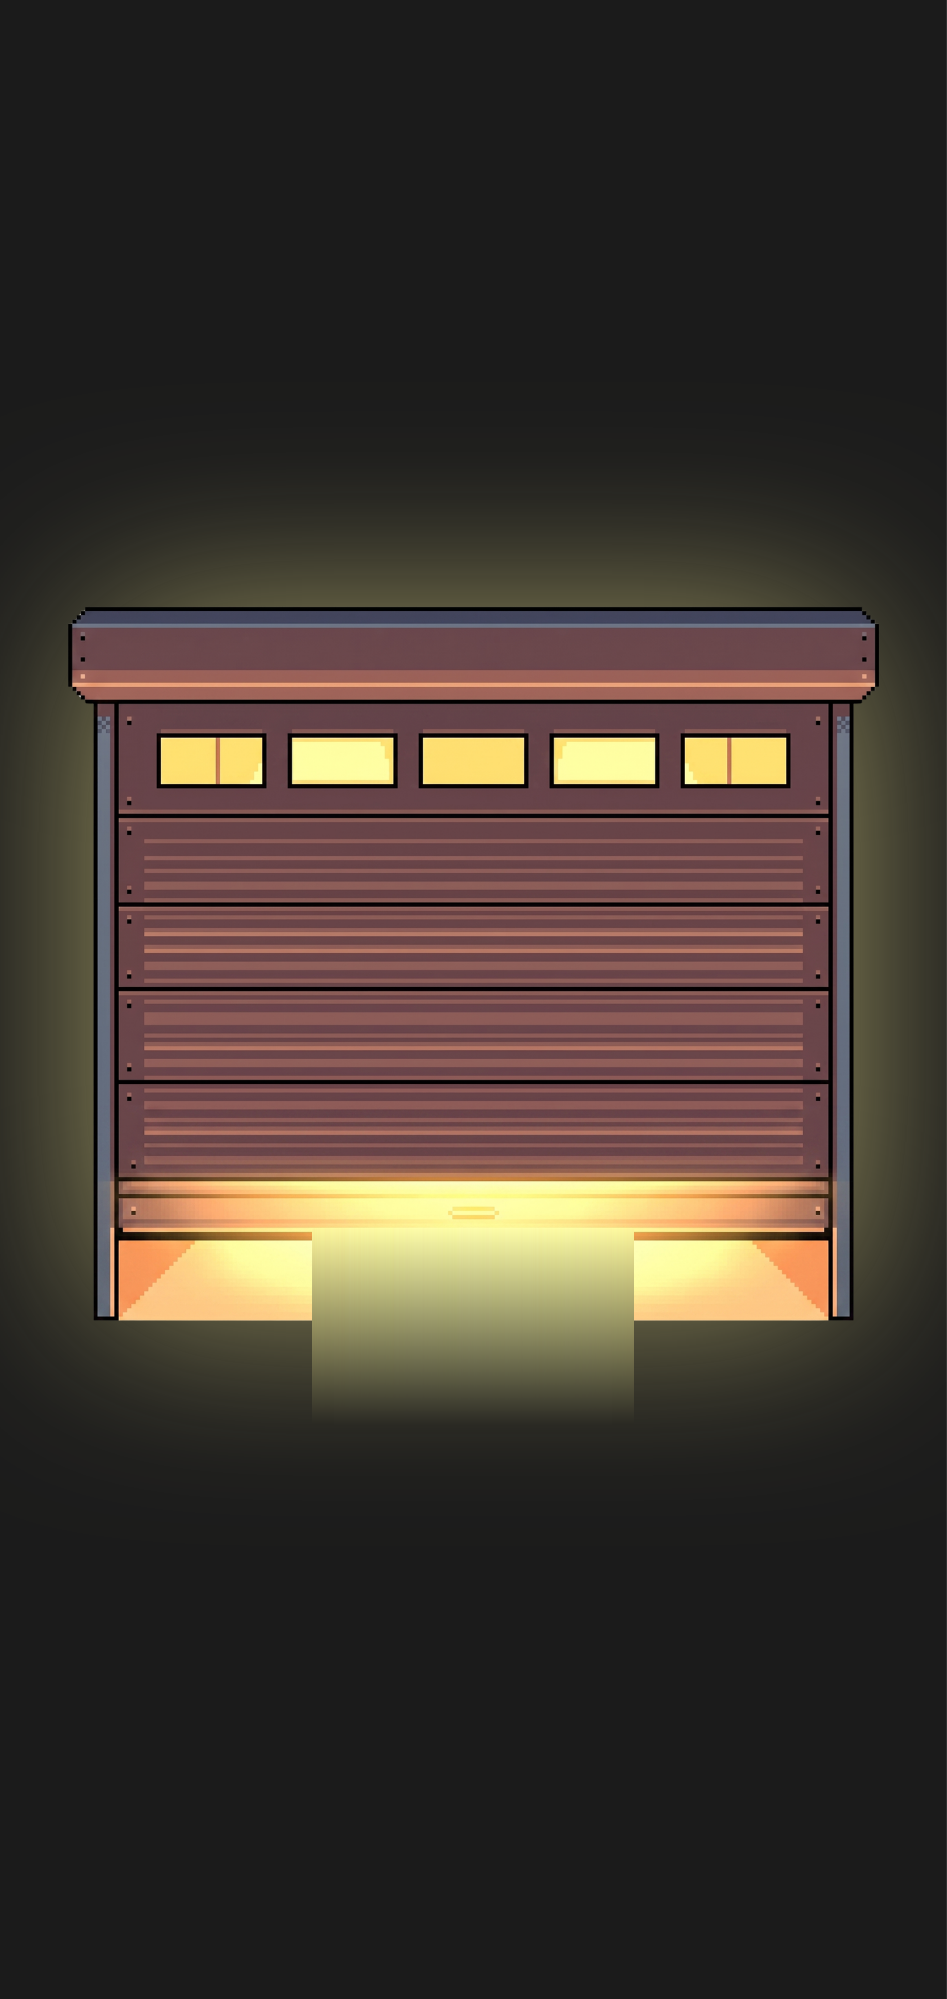
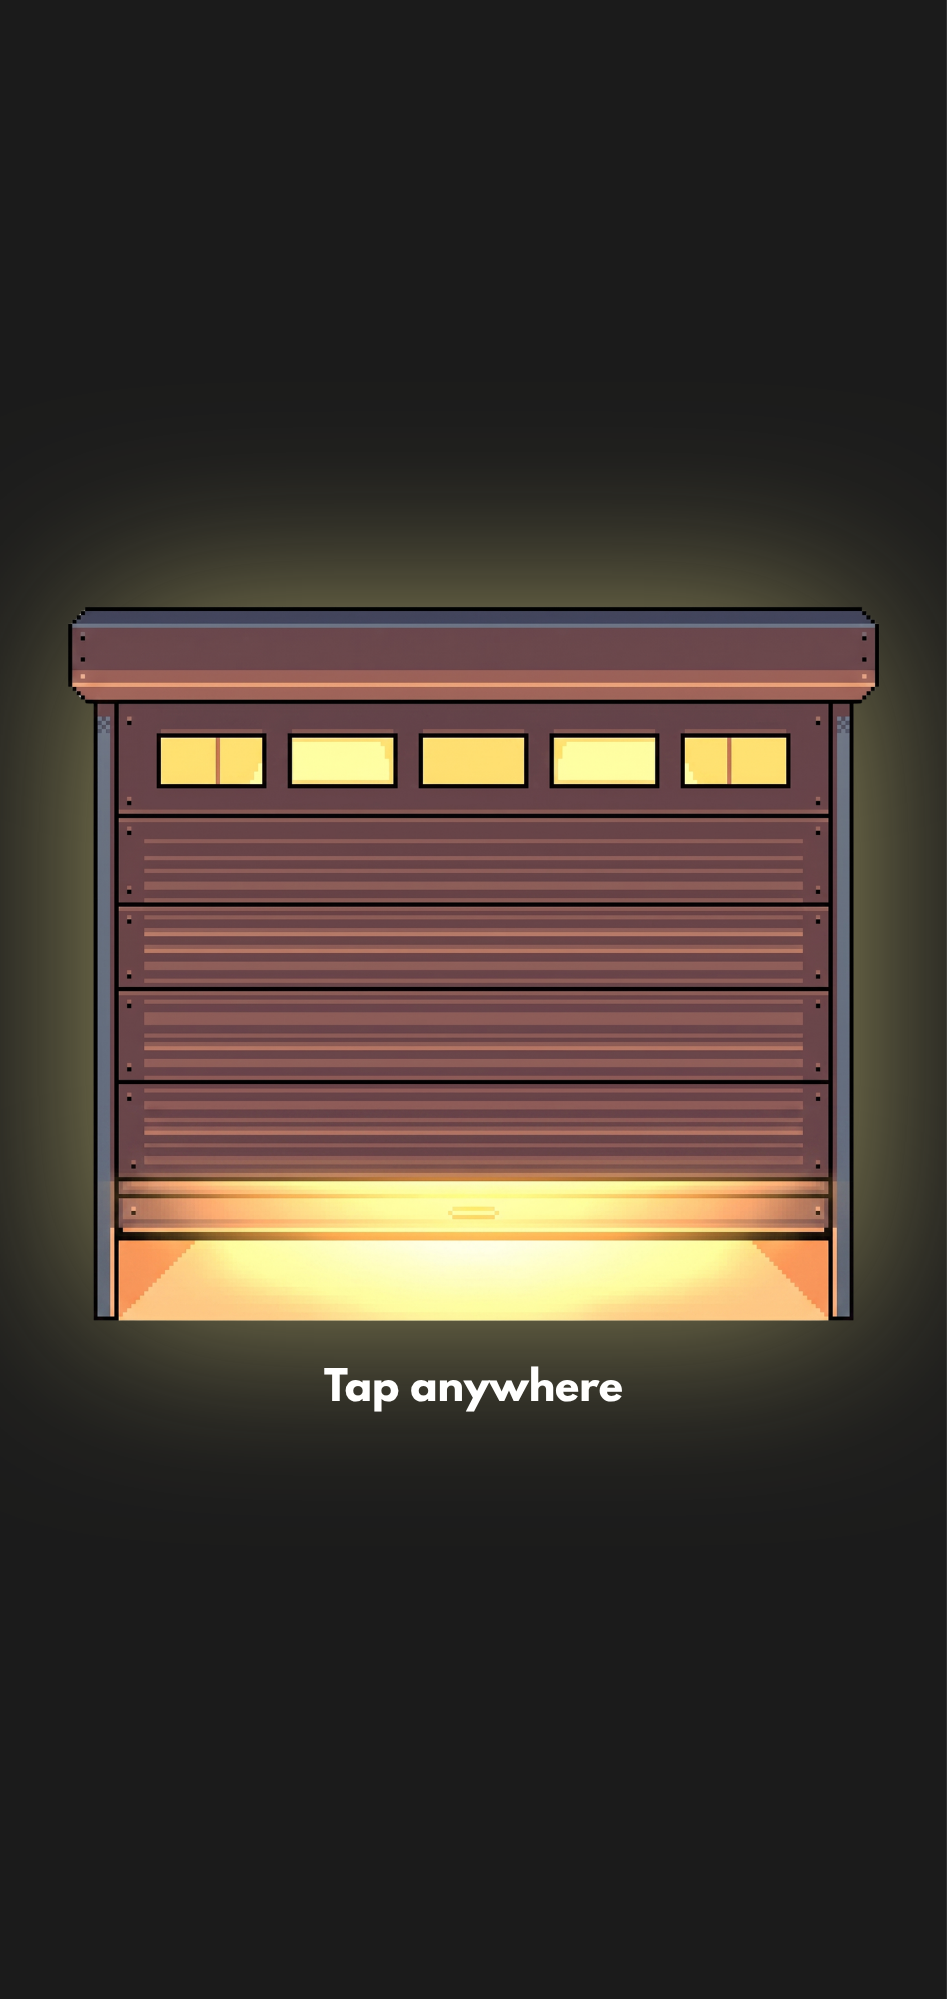
Wheels: faster + precise centers (no wobble, rim-only); rework welcome intro
Wheels: re-measured every hub via rotational-symmetry fitting (true axle, no
orbit) and set each disk radius to the rim's outer edge so only the rim spins,
tire stays static. Spin ~2.3x faster (.22s).

Welcome: use the original unaltered door images (baked growing "Tap anywhere"
text restored), post dark theme to the native shell so safe-area bezels aren't
white, subtler chest-pop on taps, and the headlights video now plays from frame
0 after the zoom (holds last frame only after it ends). Settings gains a
"Replay intro animation" row.

Changed region(s): [[0.3062, 0.5893, 0.6737, 0.7134]]

diff --git a/app/welcome.html b/app/welcome.html
@@ -1,66 +1,45 @@
 <!doctype html>
-<html lang="en">
+<html lang="en" data-theme="dark">
 <head>
 <meta charset="utf-8">
 <meta name="viewport" content="width=device-width, initial-scale=1, viewport-fit=cover, user-scalable=no">
 <title>Welcome to CarBox</title>
-<link rel="preconnect" href="https://fonts.googleapis.com">
-<link rel="preconnect" href="https://fonts.gstatic.com" crossorigin>
-<link href="https://fonts.googleapis.com/css2?family=League+Spartan:wght@400;600;700&display=swap" rel="stylesheet">
 <style>
-  :root{ --brown:#615142; }
   *{ box-sizing:border-box; -webkit-tap-highlight-color:transparent; }
-  html,body{ margin:0; height:100%; background:#111010; overflow:hidden; }
+  html,body{ margin:0; height:100%; background:#100f0f; overflow:hidden; }
   body{ font-family:'League Spartan',system-ui,-apple-system,'Segoe UI',sans-serif; }
 
-  /* full-screen stage */
-  #stage{ position:fixed; inset:0; background:#111010; overflow:hidden; touch-action:manipulation; }
+  #stage{ position:fixed; inset:0; background:#100f0f; overflow:hidden; touch-action:manipulation; }
 
-  /* the garage-door images fill the screen; they swap + bounce on each tap */
+  /* the garage-door frames fill the screen (your originals, unaltered) and
+     swap with a chest-pop on each tap */
   .door{ position:absolute; inset:0; width:100%; height:100%; object-fit:cover;
-         will-change:transform,opacity; transform:translateZ(0); }
+         will-change:transform,opacity; }
 
-  /* idle "Tap anywhere" text — a separate layer so the door can bounce beneath it */
-  #tapText{ position:absolute; left:0; right:0; top:72%; text-align:center;
-    color:#fff; font-weight:700; font-size:30px; letter-spacing:.5px;
-    text-shadow:0 2px 18px rgba(0,0,0,.55);
-    animation:breathe 2.4s ease-in-out infinite; pointer-events:none; }
-  @keyframes breathe{ 0%,100%{opacity:.72} 50%{opacity:1} }
-
-  /* the headlights video stage */
-  #videoWrap{ position:absolute; inset:0; background:#000; opacity:0; pointer-events:none;
+  /* headlights video sits at the bottom of the stack so the door zooms in FRONT
+     of it, then dissolves to reveal it */
+  #videoWrap{ position:absolute; inset:0; background:#100f0f; opacity:0; pointer-events:none;
     display:flex; align-items:center; justify-content:center; }
-  #vid{ width:100%; height:100%; object-fit:contain; background:#000; }
+  #vid{ width:100%; height:100%; object-fit:contain; background:#100f0f; }
 
-  /* brown Continue button — pops up at second 2 */
-  #continue{ position:absolute; left:50%; bottom:6%; transform:translateX(-50%) scale(0);
-    background:var(--brown); color:#fff; border:none; cursor:pointer;
+  #continue{ position:absolute; left:50%; bottom:7%; transform:translateX(-50%) scale(0);
+    background:#615142; color:#fff; border:none; cursor:pointer;
     font-family:inherit; font-weight:700; font-size:19px; letter-spacing:.4px;
-    padding:16px 54px; border-radius:999px; box-shadow:0 12px 30px rgba(0,0,0,.45);
+    padding:16px 56px; border-radius:999px; box-shadow:0 12px 30px rgba(0,0,0,.5);
     opacity:0; pointer-events:none; }
   #continue.show{ animation:pop .5s cubic-bezier(.3,1.4,.4,1) forwards; pointer-events:auto; }
   @keyframes pop{ 0%{transform:translateX(-50%) scale(0);opacity:0}
                   60%{transform:translateX(-50%) scale(1.08);opacity:1}
                   100%{transform:translateX(-50%) scale(1);opacity:1} }
-  #continue:active{ filter:brightness(.92); }
+  #continue:active{ filter:brightness(.9); }
 
-  /* quick fade-to-black used right before handing off to the garage */
   #fade{ position:absolute; inset:0; background:#000; opacity:0; pointer-events:none; transition:opacity .28s ease; }
-
-  @media (prefers-reduced-motion:reduce){
-    #tapText{ animation:none; opacity:.9; }
-  }
 </style>
 </head>
 <body>
 <div id="stage" aria-label="Tap anywhere to continue">
-  <!-- video sits at the bottom of the stack so the door can zoom in FRONT of it,
-       then fade away to reveal it -->
-  <div id="videoWrap">
-    <video id="vid" src="assets/ob_headlights.mp4" muted playsinline preload="auto"></video>
-  </div>
+  <div id="videoWrap"><video id="vid" src="assets/ob_headlights.mp4" muted playsinline preload="auto"></video></div>
   <img class="door" id="door" src="assets/ob_door0.png" alt="">
-  <div id="tapText">Tap anywhere</div>
   <button id="continue">Continue</button>
   <div id="fade"></div>
 </div>
@@ -68,110 +47,100 @@
 <script>
 (function () {
   'use strict';
+  /* tell the native shell to go dark so the safe-area insets aren't white */
+  try { document.documentElement.setAttribute('data-theme', 'dark'); } catch (e) {}
+  try { if (window.ReactNativeWebView) window.ReactNativeWebView.postMessage(JSON.stringify({ theme: 'dark' })); } catch (e) {}
+
   var reduced = window.matchMedia && matchMedia('(prefers-reduced-motion: reduce)').matches;
   var SPRING = 'cubic-bezier(.3,1.4,.4,1)';
 
-  var stage   = document.getElementById('stage');
-  var door    = document.getElementById('door');
-  var tapText = document.getElementById('tapText');
-  var vwrap   = document.getElementById('videoWrap');
-  var vid     = document.getElementById('vid');
-  var cont    = document.getElementById('continue');
-  var fade    = document.getElementById('fade');
+  var stage = document.getElementById('stage');
+  var door  = document.getElementById('door');
+  var vwrap = document.getElementById('videoWrap');
+  var vid   = document.getElementById('vid');
+  var cont  = document.getElementById('continue');
+  var fade  = document.getElementById('fade');
+  vid.loop = false;
 
   var DOORS = ['assets/ob_door0.png','assets/ob_door1.png','assets/ob_door2.png','assets/ob_door3.png'];
-  /* preload every frame + the video so nothing hitches mid-sequence */
-  DOORS.forEach(function (s) { var i = new Image(); i.src = s; });
+  DOORS.forEach(function (s) { var i = new Image(); i.src = s; });   /* preload frames */
+  try { vid.load(); } catch (e) {}                                   /* preload video */
 
-  var step = 0;        /* 0,1,2 = door frames shown; then 'video' */
-  var busy = false;    /* lock during transitions so taps can't stack */
+  var step = 0;      /* 0,1,2 = door frames; then 'video' */
+  var busy = false;
 
-  /* swap to the next door frame with a chest-open bounce (text stays put) */
+  /* swap to the next door frame with a chest-pop (grows + settles, never shrinks
+     below the screen so no edge ever shows) */
   function openDoor(nextSrc) {
     busy = true;
     var incoming = door.cloneNode(false);
     incoming.removeAttribute('id');
     incoming.src = nextSrc;
     incoming.style.opacity = '0';
-    door.parentNode.insertBefore(incoming, door.nextSibling);
-    var old = door;
-    door = incoming;
+    stage.insertBefore(incoming, door.nextSibling);
+    var old = door; door = incoming;
 
-    var dur = reduced ? 220 : 470;
-    var bounce = incoming.animate(
-      [{ transform: 'scale(.84)', opacity: 0 }, { transform: 'scale(1)', opacity: 1 }],
-      { duration: dur, easing: reduced ? 'ease-out' : SPRING, fill: 'forwards' }
+    var dur = reduced ? 200 : 420;
+    var a = incoming.animate(
+      reduced
+        ? [{ opacity: 0 }, { opacity: 1 }]
+        : [{ opacity: 0, transform: 'scale(1)' },
+           { opacity: 1, transform: 'scale(1.045)', offset: 0.45 },
+           { opacity: 1, transform: 'scale(1)' }],
+      { duration: dur, easing: 'ease-out', fill: 'forwards' }
     );
-    /* cross-fade the previous frame out under the incoming one */
-    var fadeOut = old.animate([{ opacity: 1 }, { opacity: 0 }], { duration: 160, easing: 'ease-out', fill: 'forwards' });
-    fadeOut.onfinish = function () { if (old.parentNode) old.parentNode.removeChild(old); };
-    /* stay locked until the bounce fully settles so fast taps can't stack */
-    bounce.onfinish = function () { busy = false; };
+    old.animate([{ opacity: 1 }, { opacity: 0 }], { duration: 150, easing: 'ease-out', fill: 'forwards' })
+       .onfinish = function () { if (old.parentNode) old.parentNode.removeChild(old); };
+    a.onfinish = function () { busy = false; };
   }
 
-  /* final tap: dive into the open garage, then reveal the headlights video */
+  /* final tap: fast zoom into the doorway, then play the headlights video from 0 */
   function zoomIntoGarage() {
-    busy = true;
-    /* text fades away for the zoom (stop the idle breathe so they don't fight) */
-    tapText.style.animation = 'none';
-    tapText.animate([{ opacity: getComputedStyle(tapText).opacity }, { opacity: 0 }],
-      { duration: 180, easing: 'ease-out', fill: 'forwards' });
-
-    /* swap to the transparent, text-free fully-open frame (aligned with the last) */
+    busy = true; step = 'video';
     var zoom = door.cloneNode(false);
     zoom.removeAttribute('id');
-    zoom.src = 'assets/ob_door3.png';
-    door.parentNode.insertBefore(zoom, door.nextSibling);
+    zoom.src = 'assets/ob_door3.png';           /* transparent, text-free, aligned */
+    stage.insertBefore(zoom, door.nextSibling);
     var old = door; door = zoom;
     if (old.parentNode) old.parentNode.removeChild(old);
-    zoom.style.transformOrigin = '50% 53%';   /* dive into the glowing doorway */
+    zoom.style.transformOrigin = '50% 53%';     /* the glowing doorway */
 
-    /* start the video underneath so it's ready as the yellow fills the screen */
-    vwrap.style.opacity = '1';
-    var playing = vid.play();
-    if (playing && playing.catch) playing.catch(function () {});
-    armContinue();
-
-    var dur = reduced ? 500 : 720;
-    /* fast zoom that eases IN (accelerates) toward the glowing doorway */
+    var dur = reduced ? 420 : 640;
     var z = zoom.animate(
       [{ transform: 'scale(1)' }, { transform: 'scale(12)' }],
-      { duration: dur, easing: 'cubic-bezier(.55,.06,.9,.32)', fill: 'forwards' }
+      { duration: dur, easing: 'cubic-bezier(.55,.06,.9,.32)', fill: 'forwards' }   /* fast ease-in */
     );
-    /* fade the zooming frame out over the last third so it dissolves into the video */
-    zoom.animate([{ opacity: 1, offset: 0 }, { opacity: 1, offset: 0.62 }, { opacity: 0, offset: 1 }],
-      { duration: dur, easing: 'linear', fill: 'forwards' });
-    z.onfinish = function () { if (zoom.parentNode) zoom.parentNode.removeChild(zoom); };
-    step = 'video';
+    z.onfinish = function () {
+      /* the zoomed yellow now fills the screen; start the video underneath and
+         dissolve the yellow away so the video plays from its very first frame */
+      vwrap.style.opacity = '1';
+      try { vid.currentTime = 0; } catch (e) {}
+      var p = vid.play(); if (p && p.catch) p.catch(function () {});
+      zoom.animate([{ opacity: 1 }, { opacity: 0 }], { duration: 300, easing: 'ease-out', fill: 'forwards' })
+          .onfinish = function () { if (zoom.parentNode) zoom.parentNode.removeChild(zoom); };
+      armContinue();                              /* Continue pops in 2s into the video */
+    };
   }
 
-  /* the Continue button pops up 2s in and survives to the last frame */
   var continueArmed = false;
   function armContinue() {
     if (continueArmed) return; continueArmed = true;
-    setTimeout(function () {
-      cont.style.opacity = '1';
-      cont.classList.add('show');
-    }, 2000);
+    setTimeout(function () { cont.style.opacity = '1'; cont.classList.add('show'); }, 2000);
   }
 
   stage.addEventListener('click', function (e) {
-    if (e.target === cont) return;         /* the button handles itself */
+    if (e.target === cont) return;
     if (busy || step === 'video') return;
     if (step < 2) { step++; openDoor(DOORS[step]); }
-    else { zoomIntoGarage(); }             /* step === 2 -> dive in */
+    else { zoomIntoGarage(); }
   });
 
   cont.addEventListener('click', function () {
     cont.disabled = true;
-    /* hand off to the garage with a reveal (index.html reads this flag) */
     try { sessionStorage.setItem('carbox.reveal', '1'); } catch (err) {}
     fade.style.opacity = '1';
     setTimeout(function () { location.replace('index.html?v=' + Date.now()); }, 260);
   });
-
-  /* video never loops -> it naturally holds its last frame until Continue is tapped */
-  vid.loop = false;
 })();
 </script>
 </body>

diff --git a/app/wheels.js b/app/wheels.js
@@ -15,14 +15,17 @@
 window.CarBoxWheels = (function () {
   'use strict';
 
-  /* preset id -> { w, h (natural px), wheels:[{x,y,r} front, rear] } */
+  /* preset id -> { w, h (natural px), wheels:[{x,y,r} front, rear] }
+     Centres found by rotational-symmetry fitting (the point the tire ring is
+     symmetric about = the true axle, so rotation never wobbles); r = the rim's
+     outer radius (tire inner edge) so ONLY the rim spins and the tire stays. */
   var GEOM = {
-    body_suv:      { w: 872, h: 340, wheels: [{ x: 170, y: 261, r: 54 }, { x: 688, y: 266, r: 54 }] },
-    body_suvcoupe: { w: 875, h: 330, wheels: [{ x: 161, y: 236, r: 50 }, { x: 703, y: 235, r: 50 }] },
-    body_coupe2:   { w: 885, h: 278, wheels: [{ x: 163, y: 201, r: 54 }, { x: 730, y: 207, r: 54 }] },
-    body_coupe4:   { w: 868, h: 265, wheels: [{ x: 157, y: 184, r: 50 }, { x: 693, y: 196, r: 50 }] },
-    body_sedan:    { w: 874, h: 284, wheels: [{ x: 147, y: 200, r: 50 }, { x: 687, y: 216, r: 50 }] },
-    sprite_chiron: { w: 1001, h: 265, wheels: [{ x: 212, y: 177, r: 58 }, { x: 836, y: 193, r: 58 }] }
+    body_suv:      { w: 872, h: 340, wheels: [{ x: 175, y: 266, r: 65 }, { x: 688, y: 267, r: 65 }] },
+    body_suvcoupe: { w: 875, h: 330, wheels: [{ x: 167, y: 232, r: 60 }, { x: 700, y: 233, r: 61 }] },
+    body_coupe2:   { w: 885, h: 278, wheels: [{ x: 169, y: 204, r: 61 }, { x: 729, y: 204, r: 62 }] },
+    body_coupe4:   { w: 868, h: 265, wheels: [{ x: 163, y: 190, r: 53 }, { x: 693, y: 197, r: 54 }] },
+    body_sedan:    { w: 874, h: 284, wheels: [{ x: 151, y: 206, r: 52 }, { x: 686, y: 217, r: 54 }] },
+    sprite_chiron: { w: 1001, h: 265, wheels: [{ x: 217, y: 171, r: 64 }, { x: 842, y: 196, r: 66 }] }
   };
 
   var styleInjected = false;
@@ -36,18 +39,18 @@ window.CarBoxWheels = (function () {
       /* keep the cross-page car morph on the image itself */
       '.cb-wheels{position:absolute;inset:0;pointer-events:none;overflow:visible}' +
       '.cb-wheel{position:absolute;border-radius:50%;overflow:hidden;' +
-        '-webkit-mask:radial-gradient(circle at 50% 50%,#000 76%,rgba(0,0,0,0) 100%);' +
-                'mask:radial-gradient(circle at 50% 50%,#000 76%,rgba(0,0,0,0) 100%)}' +
+        '-webkit-mask:radial-gradient(circle at 50% 50%,#000 85%,rgba(0,0,0,0) 100%);' +
+                'mask:radial-gradient(circle at 50% 50%,#000 85%,rgba(0,0,0,0) 100%)}' +
       '.cb-wheel-spin{position:absolute;background-repeat:no-repeat;background-size:100% 100%;' +
         'image-rendering:pixelated;' +
-        'animation:cb-spin var(--cb-wheel-dur,.5s) linear infinite;' +
+        'animation:cb-spin var(--cb-wheel-dur,.22s) linear infinite;' +
         'will-change:transform;backface-visibility:hidden}' +
       /* BOTH keyframes must use rotate() so the browser interpolates the ANGLE,
          not the (identical) start/end matrices -> a real full turn. Car faces
          left, so wheels roll counter-clockwise. */
       '@keyframes cb-spin{from{transform:rotate(0deg)}to{transform:rotate(-360deg)}}' +
       /* respect reduced motion: never stops, but rolls gently instead of a blur */
-      '@media (prefers-reduced-motion:reduce){.cb-wheel-spin{animation-duration:var(--cb-wheel-dur-rm,3.6s)}}';
+      '@media (prefers-reduced-motion:reduce){.cb-wheel-spin{animation-duration:var(--cb-wheel-dur-rm,2s)}}';
     document.head.appendChild(s);
   }
 

diff --git a/app/settings.html b/app/settings.html
@@ -280,6 +280,9 @@
       </div>
       <img class="chev-r" src="assets/icon_chevron.png" alt="">
     </div>
+    <div class="setrow rowbtn" id="replayintro" role="button" tabindex="0">
+      <div class="stx">Replay intro animation</div>
+    </div>
     <div class="setrow rowbtn" id="signout" role="button" tabindex="0">
       <div class="stx">Sign out</div>
     </div>
@@ -791,6 +794,10 @@ document.addEventListener('DOMContentLoaded', function () {
 
   /* Dev tools (Redo onboarding, Switch to Pro/Base, the 7-tap title unlock) were
      permanently removed on 2026-07-24 — the app is non-dev on every device. */
+
+  /* Replay the one-time welcome/onboarding animation on demand */
+  var replay = document.getElementById('replayintro');
+  if (replay) replay.addEventListener('click', function () { location.href = 'welcome.html'; });
 
   /* ════ CARBOX PRO ════ */
   function paintPlan() {
